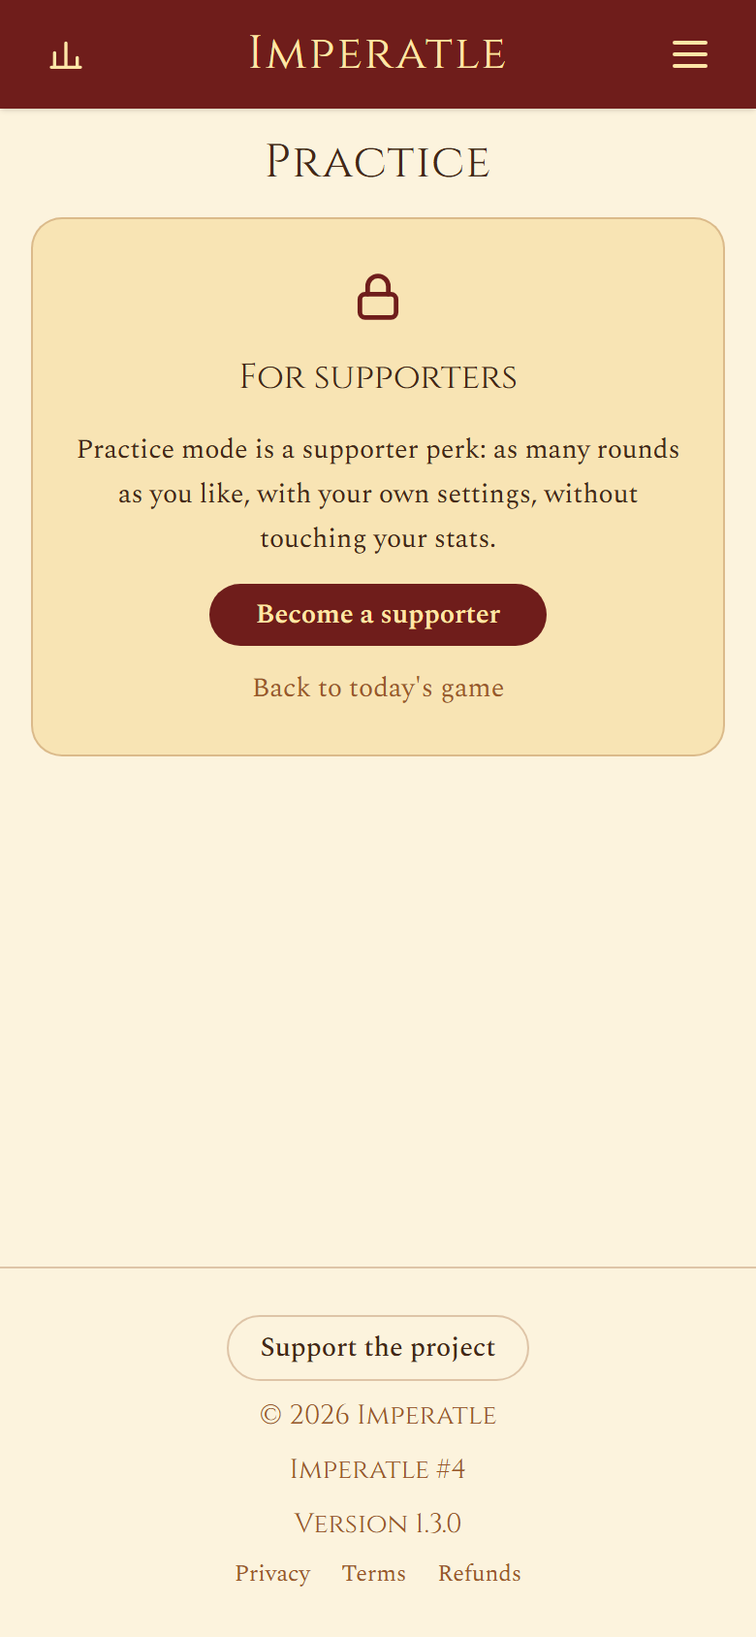
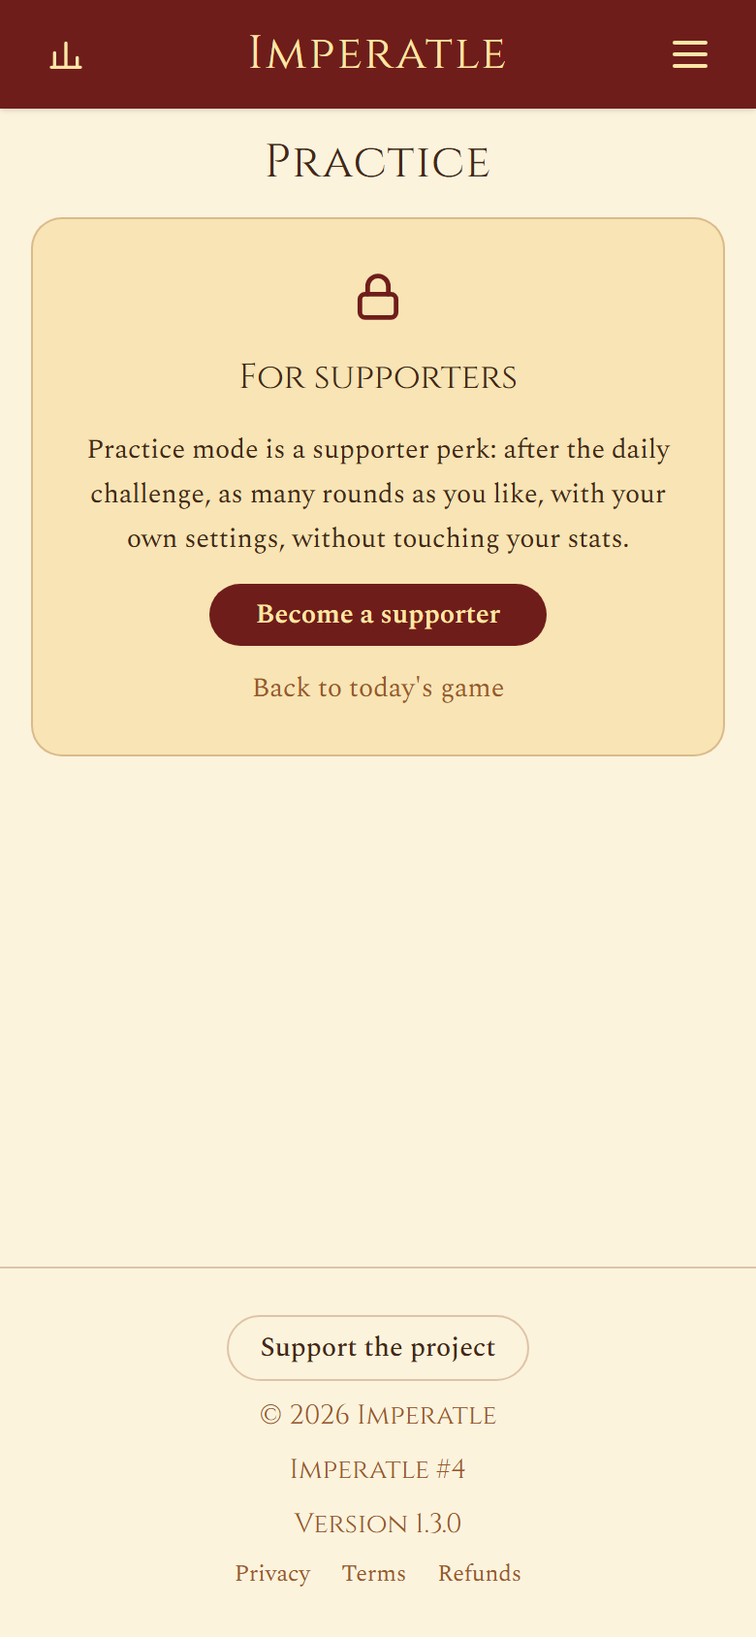
docs: mark m2, b4 and i1 fixed in the qa report and refresh the phone screenshots

Changed region(s): [[0.0923, 0.2464, 0.8923, 0.3389]]

diff --git a/docs/launch/QA-REPORT.md b/docs/launch/QA-REPORT.md
@@ -5,8 +5,9 @@ Branch `feat/launch-qa` (saiu da `feat/launch`), 3 de novembro de 2026. Nada foi
 ## Resumo
 
 - A superfície nova está bem feita no geral: login sem open redirect, logout e exclusão protegidos contra CSRF, webhook da Paddle com assinatura, janela de tempo, idempotência e checagem do preço, checagem de apoiador no servidor em todos os 8 endpoints de arquivo e treino, e a resposta nunca sai antes do fim da rodada.
-- Achei **1 problema médio que já corrigi** (limites por IP viravam globais em produção), **1 médio que é decisão sua** (dá para descobrir a resposta do dia pelo treino, por eliminação) e alguns baixos. Os que eram bug claro estão corrigidos, cada um no seu commit e com teste.
-- Todos os testes passam: 205 testes da API, 84 do site, lint, typecheck, build e os 34 testes de ponta a ponta (Playwright).
+- Achei **2 problemas médios, os dois corrigidos** (limites por IP viravam globais em produção; dava para descobrir a resposta do dia pelo treino, por eliminação) e alguns baixos. Os que eram bug claro estão corrigidos, cada um no seu commit e com teste.
+- Depois da sua decisão, também foram corrigidos o M2 (treino só depois do jogo do dia), o B4 (palpites ao mesmo tempo) e o I1 (logout agora encerra a sessão no servidor), e o compartilhamento de jogo anterior ganhou título próprio.
+- Todos os testes passam: 220 testes da API (3 deles contra um Postgres de verdade), 90 do site, lint, typecheck, build e os 35 testes de ponta a ponta (Playwright).
 
 ## Achados, do mais grave ao menos grave
 
@@ -18,7 +19,7 @@ Branch `feat/launch-qa` (saiu da `feat/launch`), 3 de novembro de 2026. Nada foi
 - Impacto: o limite do feedback (5 mensagens a cada 10 minutos por IP) virava 5 mensagens a cada 10 minutos **para o site inteiro**. O limite de palpites também cai no IP no primeiro palpite de cada visitante (antes do cookie existir): 20 primeiros palpites por minuto para todos juntos, ou seja, erro 429 para jogadores de verdade num pico.
 - Correção: lê de novo o IP do cliente pelo `X-Forwarded-For`, só o último salto (o que a própria entrada do Azure acrescenta), então ninguém escolhe o próprio IP mandando o cabeçalho. Testes em `ProxyHeadersTests`.
 
-**M2. Um apoiador consegue descobrir a resposta do dia pelo modo treino, por eliminação.** Não corrigido: decisão sua.
+**M2. Um apoiador conseguia descobrir a resposta do dia pelo modo treino, por eliminação.** Corrigido em `27e70a4` (API) e `76687bd` (site), com a opção 1.
 - Onde: `apps/api/Controllers/PracticeController.cs` (`Start` tira o império do dia do sorteio).
 - O que é: o treino nunca sorteia o império do dia (o que é certo: senão ele apareceria direto). Mas a contagem do filtro mostra quantos impérios ele tem, e o sorteio evita repetir os 10 últimos. Com um filtro pequeno (por exemplo Fácil + Ásia, ou Médio + Idade Média + Ásia), o apoiador joga rodadas até ver todos os impérios do filtro; o que nunca aparece é o do dia. Com 2 impérios no filtro, se um deles é o do dia, "Jogar de novo" traz sempre o mesmo. Custa algumas rodadas (cada uma com 3 tentativas para revelar o nome).
 - Impacto: só apoiadores, só estraga o jogo de quem quer trapacear, e não mexe no placar de ninguém. Mas o "Imperatle de hoje" pode aparecer em fórum antes da hora.
@@ -26,6 +27,7 @@ Branch `feat/launch-qa` (saiu da `feat/launch`), 3 de novembro de 2026. Nada foi
   1. **Recomendo:** o treino só abre depois que a pessoa terminou o jogo do dia (o servidor confere; a tela de treino diz "termine o desafio de hoje primeiro"). Fecha o vazamento sem mudar mais nada.
   2. Aceitar como está (é trabalhoso e só para apoiador).
   3. Deixar o império do dia entrar no sorteio: pior, porque aí ele aparece direto no treino.
+- Correção (opção 1, decidida por você): o treino só abre depois que o jogo do dia acabou (ganho ou perdido). O servidor confere com a mesma regra de dono do jogo do dia (`AccountService.ProgressOf`): os 5 endpoints de `/practice` respondem 409 com `{"code":"daily_not_finished"}` até lá (quem não apoia continua recebendo 403 antes). Rodada de treino de ontem salva no navegador também espera. Depois do jogo do dia, o sorteio pode trazer qualquer império, inclusive o do dia (o mínimo de 2 impérios por filtro ficou, para "Jogar de novo" não repetir sempre o mesmo). No site, a página de treino mostra "Primeiro, o desafio de hoje" com o botão "Jogar o desafio de hoje", e o fim do jogo do dia mostra "Ir pro treino" para apoiadores. Os textos do diálogo de apoio e do painel bloqueado dizem "depois do desafio do dia". O jogo anterior (arquivo) ficou como estava: a resposta de um dia passado não é a de hoje. Testes: xUnit (`PracticeTests`, `LaunchIntegrationTests`), Vitest (`api.test.ts`) e e2e (treino espera o jogo do dia e abre pelo fim do jogo; depois dele o império do dia aparece no treino).
 
 ### Baixo
 
@@ -42,11 +44,12 @@ Branch `feat/launch-qa` (saiu da `feat/launch`), 3 de novembro de 2026. Nada foi
 **B3. O treino tinha dois nomes em português.** Corrigido em `dd7918c`.
 - Menu, página e painel bloqueado diziam "Treino"; o diálogo de apoio e os termos diziam "modo prática". Agora é "modo treino" em todo lugar. O teste novo também garante que nenhuma mensagem tem travessão longo.
 
-**B4. Palpites mandados ao mesmo tempo passam do limite de tentativas.** Não corrigido.
+**B4. Palpites mandados ao mesmo tempo passavam do limite de tentativas.** Corrigido em `2967ae5`.
 - Onde: os três `Guess` (`ChallengesController`, `ArchiveController`, `PracticeController`).
 - O que é: conferi na API local: 12 palpites disparados juntos com o mesmo cookie, 10 aceitos, e o contador foi de 1 para 7. Cada pedido lê o contador, soma 1 e grava; os simultâneos se sobrescrevem. Quem faz isso ganha mais comparações (maior/menor) do que as 7 tentativas.
 - Impacto: baixo. Um jogador anônimo já pode recomeçar com outro cookie quando quiser. Para quem tem conta, dá para inflar acertos e sequência nas estatísticas. O limite de 20 palpites por minuto segura um pouco.
-- Correção sugerida: token de concorrência na linha (`xmin` do Postgres via EF Core) e repetir o palpite em caso de conflito. Mexe no modelo e na migration, por isso deixei para a integração decidir.
+- Correção: `PlayerChallengeProgress` (jogo do dia e arquivo) e `PracticeSession` usam o `xmin` do Postgres como token de concorrência (`IsRowVersion`, mapeado na migration `LaunchAccountsSupportPerks`, sem SQL novo). Quando dois palpites leem o mesmo contador, o segundo a gravar é recusado e refeito a partir de uma leitura nova (`GuessConcurrency`, até 6 tentativas com uma pequena espera aleatória), que confere o limite de novo e vê o jogo já terminado como terminado. Dois primeiros palpites criando a mesma linha (índice único) seguem o mesmo caminho em vez de dar 500. Se mesmo assim não der, a API responde 409 `guess_conflict`. Regra final: nunca mais palpites contados do que o limite, e a lista de palpites sempre igual ao contador.
+- Prova: a mesma conta da QA, 12 palpites errados ao mesmo tempo com o mesmo cookie na API local (3 rodadas): **7 contados, 5 responderam "jogo já terminado", 0 erros**, contador 7 e 7 palpites guardados em cada rodada (antes: 10 aceitos). Teste automatizado contra Postgres de verdade (`GuessConcurrencyPostgresTests`, ligado pela variável `IMPERATLE_TEST_POSTGRES`): jogo do dia 12 em paralelo dá 7 contados e contador 7; 4 primeiros palpites em paralelo criam uma linha só com 4; treino de 3 tentativas com 10 em paralelo dá 3.
 
 **B5. Duas cópias da API subindo juntas num banco vazio quebraram a migration.** Não corrigido.
 - Onde: `apps/api/Program.cs` (o comentário diz que o EF Core trava o banco durante a migration).
@@ -58,7 +61,7 @@ Branch `feat/launch-qa` (saiu da `feat/launch`), 3 de novembro de 2026. Nada foi
 
 ### Informativos
 
-- **I1. Logout não invalida o cookie no servidor.** O cookie de login é autossuficiente (vale 180 dias). Se alguém copiar o cookie, ele continua valendo depois do logout, até a conta ser excluída. Normal para esse porte; se quiser fechar, dá para guardar um "carimbo de segurança" no `User` e trocar no logout.
+- **I1. Logout não invalidava o cookie no servidor.** Corrigido em `21e4301` (API) e `68653f5` (site). Antes, o cookie de login era autossuficiente (vale 180 dias) e uma cópia dele continuava valendo depois do logout. Agora cada login cria uma sessão no banco (`UserSessions`) e o id dela vai no cookie; cada pedido confere essa sessão (uma busca pela chave, sem cache, então o logout vale na hora em todas as réplicas). "Sair" encerra a sessão deste navegador; o novo botão "Sair de todos os aparelhos" (`POST /auth/logout?all=true`, com a mesma proteção de `Origin`) encerra todas; excluir a conta apaga todas. Escolhi uma tabela de sessões em vez de um contador de versão no usuário porque o "Sair" normal tem que encerrar só esta sessão. Testes num TestServer com o cookie de verdade: cookie repetido depois do logout é recusado, "todos os aparelhos" derruba as outras sessões, conta excluída é recusada, cookie sem sessão é recusado, pedidos normais seguem funcionando.
 - **I2. Compra dupla.** O diálogo não deixa quem já apoia comprar de novo, mas se acontecer (duas abas), só a primeira transação fica registrada. Reembolsar a primeira tira o apoio mesmo com a segunda paga. Raro; no caso, reembolse a segunda.
 - **I3. Sessão expirada no mesmo navegador.** Se o login expira sem logout, quem joga deslogado naquele navegador continua jogando nas linhas da conta (mesmo id anônimo). Raro e só no próprio navegador da pessoa.
 - **I4. Chaves de proteção de dados no banco.** As chaves que assinam o cookie de login ficam na tabela `DataProtectionKeys`. Quem tiver acesso ao banco consegue forjar login. Guardar a connection string como secret (já é).
@@ -75,19 +78,19 @@ Branch `feat/launch-qa` (saiu da `feat/launch`), 3 de novembro de 2026. Nada foi
 - **Dono dos dados (`AccountService.ProgressOf`):** nenhuma rota recebe id de jogador; tudo sai dos cookies. Rodada de treino de outra pessoa responde 404 (mesmo com o id certo, testado no e2e). Datas do arquivo só leem e gravam as linhas do próprio jogador.
 - **Webhook da Paddle:** assinatura HMAC com comparação em tempo constante, janela de 5 minutos, eventos repetidos ignorados pelo id (inclusive dois ao mesmo tempo), só libera com o preço do Apoiador, só revoga com reembolso total aprovado ou chargeback, corpo limitado a 256 KB, segredo vazio recusa tudo.
 - **Checagem de apoiador:** `GET /archive`, `GET /archive/{data}`, `POST /archive/{data}/guess`, `GET /practice/pool`, `POST /practice`, `GET /practice/{id}`, `GET /practice/{id}/map`, `POST /practice/{id}/guess`: todos 403 para quem não apoia (e2e).
-- **Segredo da resposta:** `/challenges/today` e `/challenges/today/progress` nunca trazem a resposta no meio da rodada; mapa de data futura é 404; arquivo recusa hoje e o futuro; treino não devolve o império até o fim; com dicas desligadas o treino não manda dica nenhuma. A única brecha é a eliminação do M2.
+- **Segredo da resposta:** `/challenges/today` e `/challenges/today/progress` nunca trazem a resposta no meio da rodada; mapa de data futura é 404; arquivo recusa hoje e o futuro; treino não devolve o império até o fim; com dicas desligadas o treino não manda dica nenhuma. A brecha da eliminação (M2) foi fechada: o treino só abre depois do jogo do dia.
 - **`Dev:IsSupporter`:** só é registrado com `IsDevelopment()`; os botões DEV respondem 404 fora de Development.
 - **Segredos no repositório:** nenhum (procurei chaves do Google, Paddle e Resend no código e no histórico da branch).
 
 ## Testes de ponta a ponta
 
-Rodar: `cd apps/web && npm run e2e` (fica fora do `npm test`). Precisa do Docker com o `imperatle-postgres-1` de pé e das portas 5104, 5105 e 3004 livres. O script cria o banco `imperatle_qa` se não existir (recusa `imperatle`, `imperatle_dev` e `imperatle_launch`), publica a API em `apps/web/e2e/.api`, sobe duas cópias dela (5104 normal; 5105 com `Dev:IsSupporter`), faz o build de produção do site na 3004 e grava 3 dias passados no arquivo.
+Rodar: `cd apps/web && npm run e2e` (fica fora do `npm test`). Precisa do Docker com o `imperatle-postgres-1` de pé e das portas 5104, 5105 e 3004 livres. O script cria o banco `imperatle_qa` (ou o da variável `E2E_DB`) se não existir (recusa `imperatle`, `imperatle_dev` e `imperatle_launch`), publica a API em `apps/web/e2e/.api`, sobe duas cópias dela (5104 normal; 5105 com `Dev:IsSupporter`), faz o build de produção do site na 3004 e grava 3 dias passados no arquivo.
 
-O que cobre (34 testes, Chromium):
+O que cobre (35 testes, Chromium):
 
 - **Jogo do dia sem conta:** vitória do começo ao fim; derrota em 7 tentativas com a resposta só no fim; recarregar mantém o tabuleiro; segundo "aparelho" (outro navegador com o mesmo cookie e sem nada salvo) reconstrói o tabuleiro com os palpites reais e termina a rodada que o primeiro vê; o progresso do dia nunca traz a resposta.
 - **Quem não apoia:** selo "Apoiadores" no menu, painel bloqueado em `/archive` e `/practice` com o botão abrindo o diálogo de apoio, e 403 nos 8 endpoints.
-- **Apoiador:** dia do arquivo jogável (erro, acerto, aviso de "jogo anterior" no fim, "Won, 2/7" na lista, jogo de hoje intacto); arquivo recusa hoje e o futuro; treino com 3 tentativas, sem dicas e só contorno, depois "Jogar de novo" com as mesmas opções; treino com dicas e mapa completo, retomado depois de recarregar; 45 rodadas num filtro que contém o império do dia sem ele aparecer (comparando o mapa); rodada de outra pessoa é 404.
+- **Apoiador:** dia do arquivo jogável (erro, acerto, aviso de "jogo anterior" no fim, "Won, 2/7" na lista, jogo de hoje intacto); arquivo recusa hoje e o futuro; treino com 3 tentativas, sem dicas e só contorno, depois "Jogar de novo" com as mesmas opções; treino com dicas e mapa completo, retomado depois de recarregar; treino fechado até o fim do jogo do dia (409 nos 5 endpoints, painel "Today's challenge first", e "Go to practice" no fim do jogo), e depois dele o império do dia aparecendo no treino (comparando o mapa); rodada de outra pessoa é 404.
 - **Idiomas:** troca pt/en em `/archive` e `/practice`, diálogo em português.
 - **Conta e apoio (com `/me` simulado na rede):** deslogado (botão do Google, apoio pede login), login sem Google configurado volta com a mensagem de erro, login recusa outros sites, logout e exclusão recusam outra origem, logado (nome, e-mail, sair, excluir, sem aviso de apoiador), logado sem apoio (botão de compra, Paddle bloqueada mostra o erro do checkout em vez de travar), apoiador (sem selo, sem checkout, selo "Apoiador" na conta, aviso de perder o apoio ao excluir).
 - **Celular, 390 px:** sem rolagem horizontal em início, menu, arquivo (bloqueado, lista, dia), treino (bloqueado, opções, rodada) e nos diálogos de conta e apoio, nos dois idiomas.
@@ -102,6 +105,7 @@ Em `docs/launch/qa-screens/`, celular de 390 px, em inglês (`en-`) e português
 - `menu-locked`: menu com o selo "Apoiadores"
 - `archive-locked`, `practice-locked`: painéis bloqueados
 - `archive-list`, `archive-day`: arquivo como apoiador
+- `practice-daily-first`: treino antes de terminar o jogo do dia
 - `practice-setup`, `practice-round`: treino como apoiador
 - `account-signed-out`, `account-signed-in`: diálogo da conta
 - `support-signed-out`, `support-buy`, `support-supporter`: diálogo de apoio nos três estados
@@ -115,12 +119,11 @@ Pronto do lado do código:
 - [x] Testes da API, do site e e2e passando
 - [x] Sem dependência vulnerável em produção
 - [x] Sem segredo no repositório
-- [x] Correções M1, B1, B2, B3 nesta branch (juntar na `feat/launch`)
+- [x] Correções M1, M2, B1, B2, B3, B4 e I1 nesta branch (juntar na `feat/launch`)
+- [x] Compartilhar jogo anterior com título próprio (`Share.archiveTitle`, "Treino #N" por enquanto; dá para trocar o nome só nessa chave)
 
 Antes de ligar:
 
-- [ ] Decidir o M2 (treino só depois do jogo do dia, ou aceitar)
-- [ ] Decidir se o B4 (palpites simultâneos) entra agora ou depois
 - [ ] Google OAuth configurado e um login real testado em produção (ou num ambiente igual)
 - [ ] Paddle sandbox: compra, webhook chegando, apoio ligando sem recarregar, reembolso desligando
 - [ ] Variáveis no Azure e na Vercel (lista no `STATUS.md`), com `Auth__CookieDomain=imperatle.com` e a API em `api.imperatle.com`
@@ -131,4 +134,4 @@ Antes de ligar:
 - [ ] Teste rápido no celular de verdade (Safari no iPhone e Chrome no Android): login, jogo, arquivo, treino
 - [ ] Versão nova em `apps/web/src/lib/changelog.ts`
 
-Com os itens acima feitos, **pode lançar**. Nenhum achado aberto impede o lançamento; o M2 é o único que eu resolveria antes, porque é barato.
+Com os itens acima feitos, **pode lançar**. Nenhum achado aberto impede o lançamento.

diff --git a/docs/launch/STATUS.md b/docs/launch/STATUS.md
@@ -21,7 +21,13 @@ Em cima dos merges (commits próprios da integração):
 - O menu mostra o selo "Apoiadores" pelo `isSupporter` real do `/me`.
 - No `SupportDialog`, quem já é apoiador não chega ao checkout por nenhum caminho: além de não ver o botão, o `/me` é consultado de novo logo antes de abrir a Paddle.
 - Espaço reservado para anúncio (`AdSlot`, logo abaixo do conteúdo da página): hoje não mostra nada para ninguém (`ADS_ENABLED = false` em `apps/web/src/lib/ads.ts`) e nunca vai mostrar para apoiador.
-- Uma migration só, `LaunchAccountsSupportPerks`, gerada do modelo final (as três migrations dos agentes foram apagadas). Testada num Postgres 17 de verdade.
+- Uma migration só, `LaunchAccountsSupportPerks`, gerada do modelo final (as três migrations dos agentes foram apagadas). Testada num Postgres 17 de verdade, de novo depois das correções do QA (banco novo do zero).
+- Correções depois do QA (branch `feat/launch-qa`):
+  - **Treino só depois do jogo do dia** (M2): todos os endpoints de `/practice` respondem 409 `daily_not_finished` até o jogo do dia acabar (ganho ou perdido), pela mesma regra de dono do jogo do dia (o 403 de quem não apoia vem antes). Depois disso o treino pode sortear qualquer império, inclusive o do dia. A página de treino mostra "Primeiro, o desafio de hoje" com o botão para o jogo, e o fim do jogo do dia tem "Ir pro treino" para apoiadores.
+  - **Palpites ao mesmo tempo** (B4): a linha do jogo (`PlayerChallengeProgress`) e a rodada de treino (`PracticeSession`) usam o `xmin` do Postgres como token de concorrência. Um palpite que perde a corrida (ou dois primeiros palpites criando a mesma linha) é refeito a partir de uma leitura nova, até 6 vezes; depois disso a API responde 409 `guess_conflict` em vez de 500.
+  - **Logout de verdade no servidor** (I1): cada login cria uma linha em `UserSessions` e o id dela vai no cookie; cada pedido confere a linha (uma busca pela chave, sem cache, então vale na hora em todas as réplicas). Sair revoga a sessão deste navegador; "Sair de todos os aparelhos" (`POST /auth/logout?all=true`) revoga todas; excluir a conta apaga todas. Cookie sem id de sessão é recusado.
+  - **Compartilhar jogo anterior**: o texto usa a chave `Share.archiveTitle` ("Treino #N" / "Practice #N" por enquanto) em vez de "Imperatle #N"; o compartilhamento do jogo do dia não mudou.
+  - Tudo isso está dentro da migration única `LaunchAccountsSupportPerks` (tabela `UserSessions` e o mapeamento do `xmin`, que não gera SQL).
 - Next.js 16.4.0 para 16.4.4 (e `eslint-config-next` igual), num commit separado (`chore(web): upgrade next to 16.4.4 for a security fix`) para dar para reverter sozinho.
 
 ## Como rodar localmente com apoiador de mentira
@@ -53,7 +59,7 @@ Observação: com `Dev:IsSupporter` e **sem** login, as páginas de arquivo e tr
 - **Vercel Hobby não permite uso comercial.** Com venda (mesmo que pela Paddle), o site precisa ir para o plano Pro ou sair da Vercel (ex.: Azure Static Web Apps, Cloudflare Pages, ou um container junto da API). Decidir antes de ligar a venda.
 - **Revisão jurídica**: política de privacidade, termos e reembolso foram escritos pelos agentes (pt e en), não por advogado. A Paddle também exige termos e política de reembolso publicados para aprovar a conta.
 - **Faixas de dificuldade do treino**: revisar `apps/api/Content/practice-difficulty.json` (quais impérios são fácil, médio e difícil; os que não estão na lista caem numa faixa pela área máxima). O conteúdo é escolha sua.
-- **Banco de produção**: a migration roda sozinha na subida da API. Ela cria tabelas novas e duas colunas em `PlayerChallengeProgress` (as linhas antigas ficam com a lista de palpites vazia). Vale um backup do Neon antes do primeiro deploy.
+- **Banco de produção**: a migration roda sozinha na subida da API. Ela cria tabelas novas (inclusive `UserSessions`) e duas colunas em `PlayerChallengeProgress` (as linhas antigas ficam com a lista de palpites vazia). Vale um backup do Neon antes do primeiro deploy.
 - **Changelog**: ao publicar, adicionar a versão em `apps/web/src/lib/changelog.ts`.
 
 ## Decisões que ficaram com você
@@ -69,5 +75,6 @@ Observação: com `Dev:IsSupporter` e **sem** login, as páginas de arquivo e tr
 - Segundo aparelho: logado em dois navegadores, jogar metade num e abrir o outro; o tabuleiro tem que vir com os mesmos palpites, pistas e mapa.
 - Checkout sandbox da Paddle com webhook chegando (túnel), apoio ligando sem recarregar a página, reembolso desligando, e o diálogo nunca reabrindo o checkout para quem já é apoiador.
 - Arquivo e treino: telas bloqueadas para não apoiador, todas as opções do treino, jogo passado não mexendo nas estatísticas.
+- Treino só depois do jogo do dia (painel "Primeiro, o desafio de hoje"), e "Sair de todos os aparelhos" com dois navegadores logados.
 - Layout em celular (menu com selo, diálogos de conta e apoio, páginas novas) e os dois idiomas.
 - Conferir que nenhum texto visível tem travessão longo.

diff --git a/README.md b/README.md
@@ -94,11 +94,11 @@ How it fits together: the browser opens Paddle's overlay checkout with `customDa
 
 The ad slot (`apps/web/src/app/[locale]/AdSlot.tsx`, under the page content) is a reserved place only: it renders nothing while `ADS_ENABLED` in `apps/web/src/lib/ads.ts` is `false`, and never for supporters.
 
-Practice mode's difficulty tiers live in [`apps/api/Content/practice-difficulty.json`](apps/api/Content/practice-difficulty.json): slugs listed per tier (easy, medium, hard), and empires not listed get a tier from their peak area (`thresholdsKm2`). Restart the API after editing it.
+Practice opens only after the player's daily game of the day is over (won or lost): every `/practice` endpoint answers 409 `{"code":"daily_not_finished"}` until then (403 for non-supporters comes first), and once it is over any empire can be drawn, today's included. Practice mode's difficulty tiers live in [`apps/api/Content/practice-difficulty.json`](apps/api/Content/practice-difficulty.json): slugs listed per tier (easy, medium, hard), and empires not listed get a tier from their peak area (`thresholdsKm2`). Restart the API after editing it.
 
 ## Tests
 
-- **API** (`tests/Imperatle.Api.Tests`, xUnit v3): scheduler rotation, content validation (including every shipped empire file and map), clue unlocking, size and duration comparisons, statistics, the content import, accounts (moving anonymous games into an account, `/me`, account deletion, login redirect and origin checks), the Paddle webhook (signature, stale and replayed events, grant and refund), the archive and practice perks, and the launch integration (one owner rule for the daily game, stats, archive and practice, stored guesses rebuilt on a second device, the practice pool read from the query string through the real MVC pipeline). Run with `dotnet test --solution apps/api/Imperatle.Api.sln`. Simultaneous guesses (never more counted than the attempt limit) are checked against a real Postgres in `GuessConcurrencyPostgresTests`, skipped unless `IMPERATLE_TEST_POSTGRES` holds a connection string to a scratch database (e.g. `Host=localhost;Port=5432;Database=imperatle_fixes;Username=imperatle;Password=imperatle`; it migrates that database and adds rows to it).
+- **API** (`tests/Imperatle.Api.Tests`, xUnit v3): scheduler rotation, content validation (including every shipped empire file and map), clue unlocking, size and duration comparisons, statistics, the content import, accounts (moving anonymous games into an account, `/me`, account deletion, login redirect and origin checks, server-side sessions: a login cookie replayed after logout, "sign out of all devices" and a deleted account are refused, on a TestServer), the Paddle webhook (signature, stale and replayed events, grant and refund), the archive and practice perks, and the launch integration (one owner rule for the daily game, stats, archive and practice, stored guesses rebuilt on a second device, the practice pool read from the query string through the real MVC pipeline). Run with `dotnet test --solution apps/api/Imperatle.Api.sln`. Simultaneous guesses (never more counted than the attempt limit) are checked against a real Postgres in `GuessConcurrencyPostgresTests`, skipped unless `IMPERATLE_TEST_POSTGRES` holds a connection string to a scratch database (e.g. `Host=localhost;Port=5432;Database=imperatle_fixes;Username=imperatle;Password=imperatle`; it migrates that database and adds rows to it).
 - **Web** (`apps/web`, Vitest): share text, number and year formatting, empire name search, the `/me` client, the Supporter purchase flow, rebuilding a board from the server's progress, the ad slot rule. Run with `npm test`.
 
 CI runs both, plus lint, type checking and a production build, on every push and pull request. CodeQL scans C#, TypeScript and the workflows, and Dependabot keeps dependencies current.
